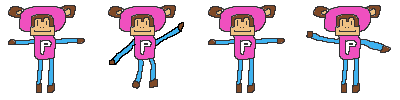
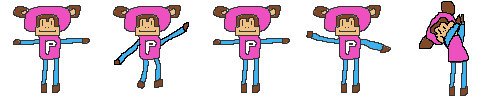
hanging monkey

diff --git a/test.html b/test.html
@@ -206,7 +206,11 @@
       ctx.rotate(this.angle);
       var width = 100
       var height = 100
-      ctx.drawImage(this.avatar, (frameNum % 4) * width, 0, width, height, -(width/2), -(height/2), width, height)
+      if (this.attached)
+        var sliceIndex = 4
+      else
+        var sliceIndex = (frameNum % 4)
+      ctx.drawImage(this.avatar, sliceIndex * width, 0, width, height, -(width/2), -(height/2), width, height)
       ctx.restore()
     },
     attach: function(cord){
